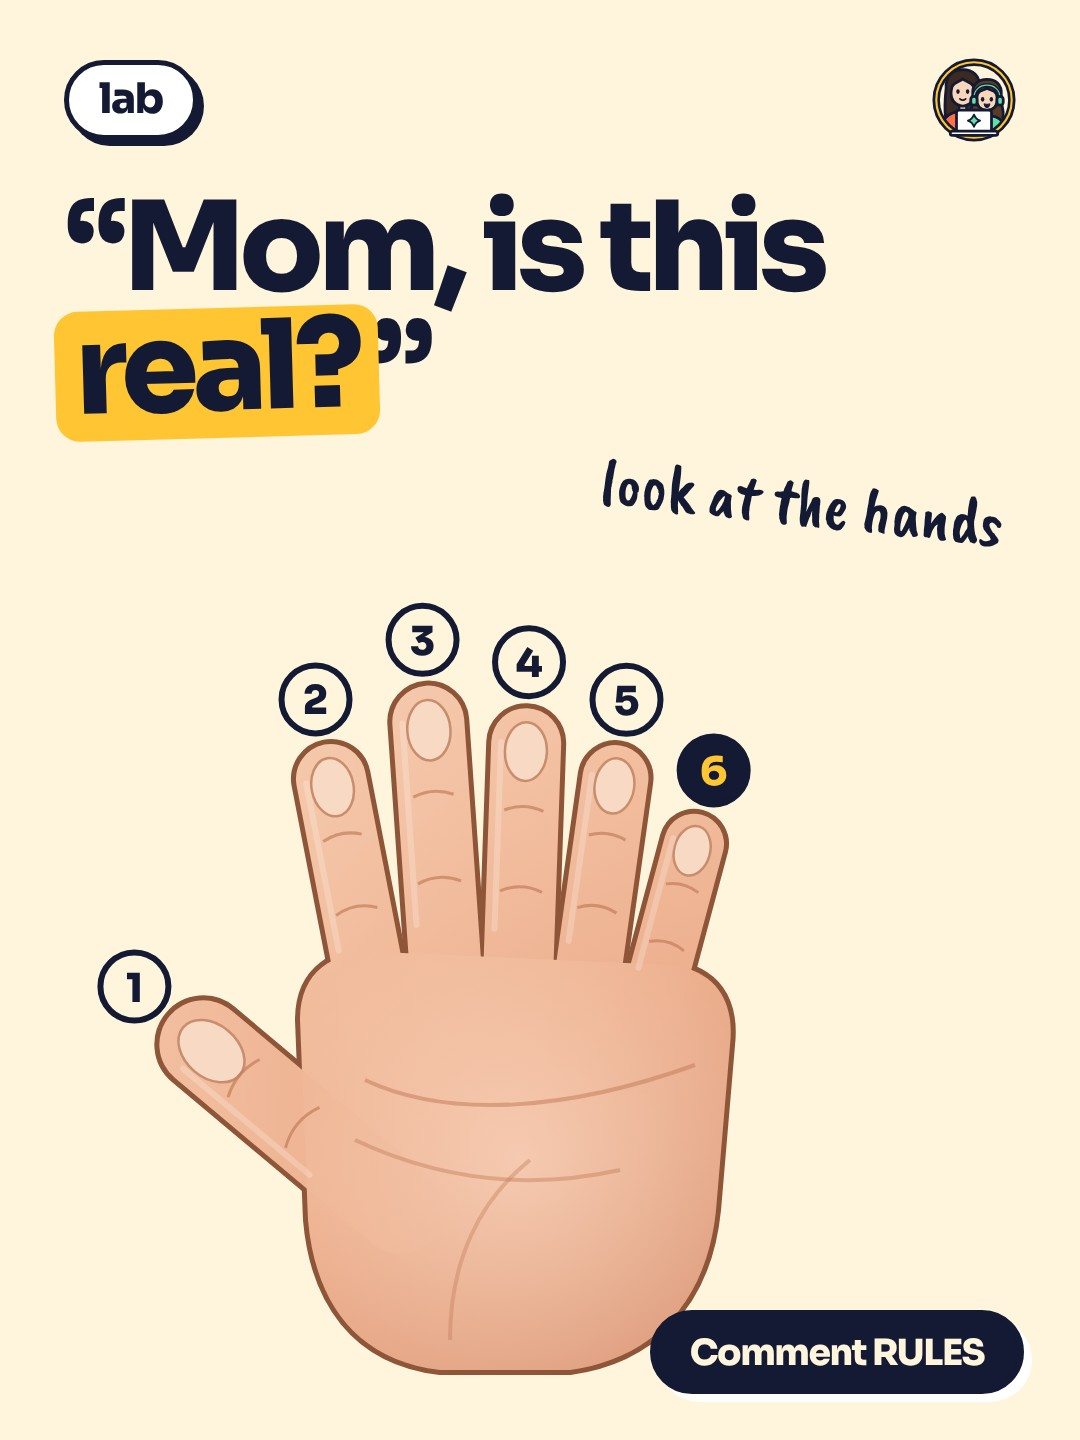
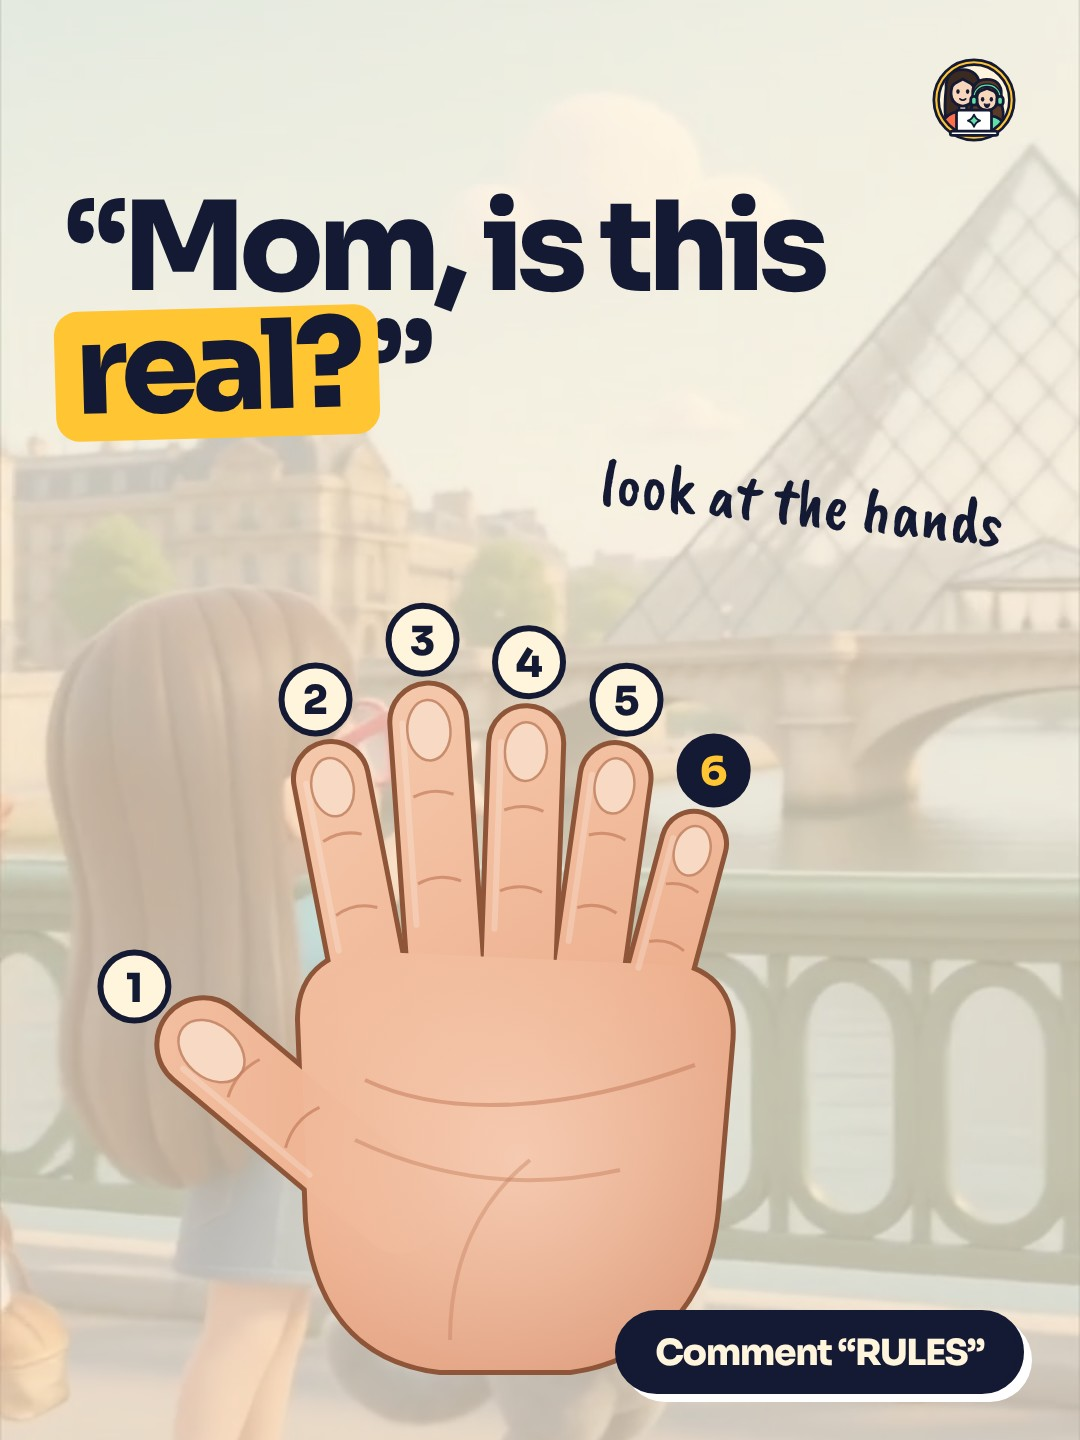
Instagram pack: no rubric word, cartoon behind flat tiles, comment word in quotes, label above headline on cartoon tiles
Claude-Session: https://claude.ai/code/session_01DtGyjSqHdVpz2CXmqnfjKT

diff --git a/social/desks/instagram.md b/social/desks/instagram.md
@@ -75,3 +75,4 @@ social/concept/sound/build.sh 07   # звук (нужны записи и нав
 - 17.11.2026: владелец прислал метод поднятия охвата пробных роликов (тред petkova.anjela.ai): ролики-выбросы ниши → механика хуков; вводные + 5-10 живых видео с телефона; пачка роликов. Записано в `SERIES.md`, раздел 6. Нужны от владельца: 10-15 роликов-выбросов (ссылки или скриншоты с просмотрами) и 5-10 живых клипов Ани и Камиллы.
 - 17.11.2026: два пробных ролика (Trial Reels) стоят в Metricool на сегодня: №11 «six fingers» 09:00 (id 431053531), №18 «sounds sure» 15:00 (id 431053559), голос Ани. Владелец: больше постов как №13 на кадрах мультфильма Камиллы (серия 32-36 предложена), №15 переделан на кадрах мультфильма, на каждом посте кнопка «Comment СЛОВО» по теме (`KW` в `review/week2.mjs`). Агент собирает ролики-выбросы с YouTube Shorts в `swipe.md` (youtube.com разрешён в окружении).
 - 17.11.2026: серия по мультфильму 32-36: заголовок перенесён в жёлтую плашку внизу, лица видны, в №36 кадр с лицом вместо детей спиной. Пробных роликов 3-5 в день (`SERIES.md`, раздел 5). Слабые №12 и №25 заменены роликами №32 и №34 (CARTOON, голос Камиллы); 33, 35, 36 в запасе. Посты-списки №14, 20, 24 переписаны в «одну историю» (новые обложки и тексты). Все подписи начинаются со слова в комментарии; ответы в личку для всех слов в `DM.md`. Страница обновлена (версия 10).
+- 17.11.2026: правки владельца ко всем новым креативам: убраны слова рубрики сверху (show/make/lab/start), слово для комментария в кавычках (обложки и подписи), фон плоской графики теперь кадр мультфильма Камиллы с тонировкой цветом серии, ярлык на обложках 32-36 поднят над плашкой. Все 26 обложек пака перерисованы. Правила в `SERIES.md`, раздел 1.

diff --git a/social/concept/SERIES.md b/social/concept/SERIES.md
@@ -8,6 +8,13 @@
 Рамки уже есть в сетке (`kit.mjs`): **show** жёлтая, **make** тёмно-синяя, **lab** коралловая, **start** мятная.
 Человек, который видел один пост серии, узнаёт следующий по первому кадру.
 
+**Правки владельца 17.11 для всех новых креативов:**
+- Слова рубрики сверху (show, make, lab, start) больше не ставим: сверху только значок справа. Цвет серии остаётся.
+- Слово для комментария всегда в кавычках: на обложке `Comment “CARTOON”`, в подписи `Comment "CARTOON"`.
+- Фон плоской графики: кадр мультфильма Камиллы, тонированный цветом серии (`cartoonBg` в `kit.mjs`), чтобы графика
+  не была однотонной и была связь с Камиллой и её мультфильмом. Посты на кадрах мультфильма идут без тонировки.
+- Подпись к кадру (ярлык вроде «her characters») стоит над плашкой с заголовком и не закрывает текст.
+
 | Серия | Рубрика | О чём | Чего ждём от зрителя |
 |---|---|---|---|
 | **Ask AI** (вопрос про ИИ) | lab | Широкие вопросы про ИИ, интересные и ребёнку, и родителю | досмотр, повтор, пересылка ребёнку или партнёру |
